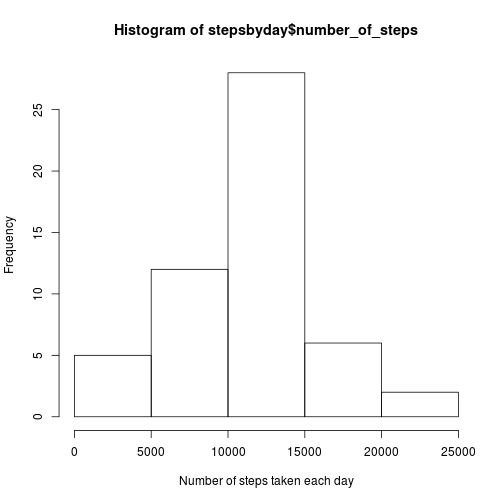
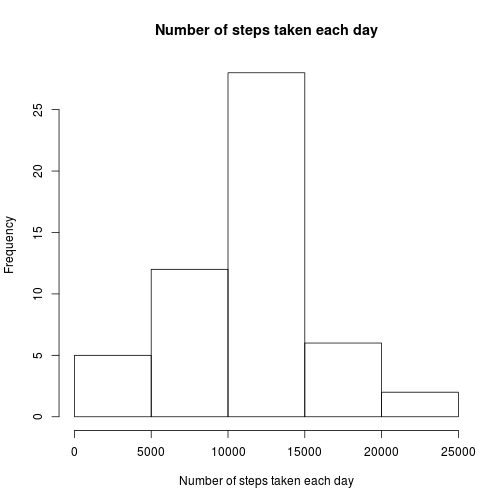
2012-05-17 v2

Changed region(s): [[0.2381, 0.0298, 0.8333, 0.0893]]

diff --git a/PA1_template.html b/PA1_template.html
@@ -207,10 +207,10 @@ stepsbyday &lt;- aggregate(datafiltered$steps, by = list(datafiltered$date), sum
 # change names of columns in dataframe
 names(stepsbyday) &lt;- c(&quot;day&quot;, &quot;number_of_steps&quot;)
 
-hist(stepsbyday$number_of_steps, xlab = &quot;Number of steps taken each day&quot;)
+hist(stepsbyday$number_of_steps, xlab = &quot;Number of steps taken each day&quot;, main = &quot;Number of steps taken each day&quot;)
 </code></pre>
 
[2 lines of base64/hex data omitted]
 
 <p>The mean and median total number of steps taken per day are:</p>
 
@@ -286,10 +286,11 @@ newstepsbyday &lt;- aggregate(dataf$steps, by = list(dataf$date), sum)
 names(newstepsbyday) &lt;- c(&quot;day&quot;, &quot;number_of_steps&quot;)
 
 # plot histogram
-hist(newstepsbyday$number_of_steps, xlab = &quot;Number of steps taken each day&quot;)
+hist(newstepsbyday$number_of_steps, xlab = &quot;Number of steps taken each day&quot;, 
+    main = &quot;Number of steps taken each day after missing values were imputed&quot;)
 </code></pre>
 
[2 lines of base64/hex data omitted]
 
 <p>And finally we calculate mean and median:</p>
 

diff --git a/PA1_template.md b/PA1_template.md
@@ -31,7 +31,7 @@ stepsbyday <- aggregate(datafiltered$steps, by = list(datafiltered$date), sum)
 # change names of columns in dataframe
 names(stepsbyday) <- c("day", "number_of_steps")
 
-hist(stepsbyday$number_of_steps, xlab = "Number of steps taken each day")
+hist(stepsbyday$number_of_steps, xlab = "Number of steps taken each day", main = "Number of steps taken each day")
 ```
 
 ![plot of chunk unnamed-chunk-2](figure/unnamed-chunk-2.png) 
@@ -130,7 +130,8 @@ newstepsbyday <- aggregate(dataf$steps, by = list(dataf$date), sum)
 names(newstepsbyday) <- c("day", "number_of_steps")
 
 # plot histogram
-hist(newstepsbyday$number_of_steps, xlab = "Number of steps taken each day")
+hist(newstepsbyday$number_of_steps, xlab = "Number of steps taken each day", 
+    main = "Number of steps taken each day after missing values were imputed")
 ```
 
 ![plot of chunk unnamed-chunk-8](figure/unnamed-chunk-8.png) 
